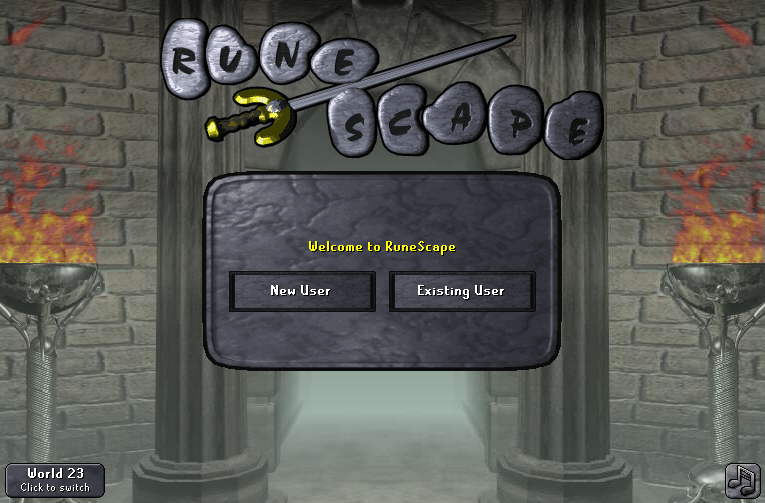
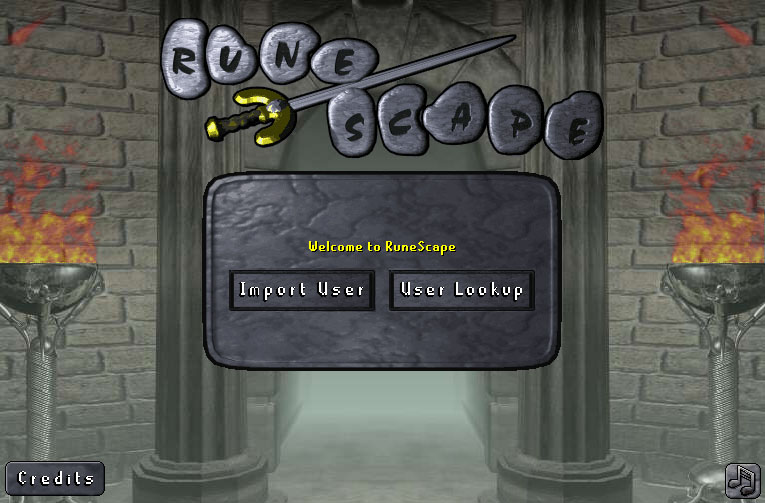
Fixed images and dpi issue

Changed region(s): [[0.3007, 0.5368, 0.6915, 0.6262], [0.0, 0.8946, 0.1503, 1.0], [0.451, 0.4771, 0.481, 0.507]]

diff --git a/src/runescape/RunescapeUI.java b/src/runescape/RunescapeUI.java
@@ -3,6 +3,10 @@ package runescape;
 import java.awt.Color;
 import java.awt.Container;
 import java.awt.Dimension;
+import java.awt.DisplayMode;
+import java.awt.GraphicsConfiguration;
+import java.awt.GraphicsDevice;
+import java.awt.GraphicsEnvironment;
 import java.awt.GridLayout;
 import java.awt.Rectangle;
 import java.awt.Toolkit;
@@ -18,6 +22,7 @@ import javax.swing.ImageIcon;
 import javax.swing.JButton;
 import javax.swing.JFrame;
 import javax.swing.JLabel;
+import javax.swing.JOptionPane;
 import javax.swing.JTextField;
 import javax.swing.SwingUtilities;
 import javax.swing.UIManager;
@@ -25,8 +30,9 @@ import javax.swing.UIManager;
 /* Currently testing to see if screen DPI is going to cause an issue with the program... How could I fix it?
  * Personal notes:
  * Laptop - 144DPI, 1920x1080
- * Desktop -
- * School Computer - 
+ * Desktop - 96DPI, 1920x1080
+ * 8 pixel difference on the Y axis will set it properly...
+ * 
  * 
  */
 
@@ -40,50 +46,73 @@ public class RunescapeUI extends JFrame {
 	public ImageIcon runescapeLoginIntro = new ImageIcon(cl.getResource("runescape/images/rsLogin.jpg"));  // Get the resource of the rsLogin
 	public ImageIcon rsLgn = new ImageIcon(cl.getResource("runescape/images/rsLogin2.png"));
 	JLabel bg = new JLabel(runescapeLoginIntro);
-	JButton loginButton, newAccountButton, searchButton;
+	JButton loginButton, newAccountButton, searchButton, creditsButton;
 	JTextField lookUp;
-	final int height = 540;
-	final int width = 765;
-		
+	final int offset = getScreenResolution();
+	final int frameWidth = 765;
+	final int frameHeight = 540 - offset;
+	final Dimension dm =  new Dimension(135, 35);
 	
 	public RunescapeUI() {
-		debugScreenResolution();
+		Container content = this;
+		//debugScreenResolution();
 		debugMousePosition(this);
 		setDefaultLookAndFeelDecorated(true);
 		lookUp = new JTextField();
 		loginButton = new JButton();
 		searchButton = new JButton();
 		newAccountButton = new JButton();
+		creditsButton = new JButton();
+		
+		// creditsButton always shown
+		creditsButton.setOpaque(true);
+		creditsButton.setBorderPainted(false);
+		creditsButton.setContentAreaFilled(false);
+		creditsButton.setFocusable(false);
+		
+		creditsButton.setLocation(frameWidth - 756, frameHeight - (38 + offset));
+		creditsButton.setSize(91, 30);
+		
+		// First original display
+		loginButton.setLocation(frameWidth - 370, frameHeight - (231 + offset));
+		loginButton.setSize(dm);
+		
+		newAccountButton.setLocation(frameWidth - 529, frameHeight - (230 + offset));
+		newAccountButton.setSize(dm);
+		
+		// Buttons that show up after you click loginButton
+		searchButton.setLocation(frameWidth - 442, frameHeight - (204 + offset));
+		searchButton.setSize(dm);
+		
+		lookUp.setLocation(frameWidth - 425, frameHeight - (285 + offset));
+		lookUp.setSize(125, 20);
 		
 		
 		searchButton.setOpaque(false);
-		searchButton.setBackground(Color.BLACK);
+		searchButton.setBackground(Color.black);
 		searchButton.setBorderPainted(false);
 		searchButton.setContentAreaFilled(false);
 		searchButton.setVisible(false);
+		searchButton.setFocusable(false);
 		
-		searchButton.setBounds(width - 434, height - 214, (456 - 331), (351 - 326));
-		lookUp.setBounds(341, 256, (467 - 341), (280 - 260));
-		loginButton.setBounds(396, 309, (531 - 396), (343 - 311));
-		newAccountButton.setLocation(width - 529, height - 230);
-		newAccountButton.setSize(135, 35);
-		//newAccountButton.setBounds(width - 529, height - 230, 135, 35);
-		
-		lookUp.setBackground(Color.darkGray);
+		lookUp.setOpaque(true);
+		lookUp.setBackground(new Color(72, 75, 84));
 		lookUp.setForeground(Color.white);
 		lookUp.setBorder(BorderFactory.createEmptyBorder());
 		lookUp.setVisible(false);
-		lookUp.requestFocus();
+		lookUp.setFocusable(true);
 		
-		newAccountButton.setOpaque(true);
+		newAccountButton.setOpaque(false);
 		newAccountButton.setBorderPainted(false);
-		newAccountButton.setContentAreaFilled(true);
-		newAccountButton.setBackground(Color.darkGray.brighter());
+		newAccountButton.setContentAreaFilled(false);
+		newAccountButton.setBackground(Color.black);
+		newAccountButton.setFocusable(false);
 		
 		loginButton.setOpaque(false);
 		loginButton.setBackground(Color.BLACK);
 		loginButton.setBorderPainted(false);
 		loginButton.setContentAreaFilled(false);
+		loginButton.setFocusable(false);
 		
 		
 		setDefaultCloseOperation(JFrame.EXIT_ON_CLOSE);
@@ -93,14 +122,22 @@ public class RunescapeUI extends JFrame {
 		getContentPane().add(lookUp);
 		getContentPane().add(bg);  // Add the runescape login picture to the frame
 		getContentPane().add(searchButton);
+		getContentPane().add(creditsButton);
 		bg.setSize(this.getSize().width, this.getSize().height);
 		setComponentZOrder(searchButton, 0);
 		setComponentZOrder(loginButton, 0);
 		setComponentZOrder(lookUp, 0);
 		setComponentZOrder(newAccountButton, 0);
+		setComponentZOrder(creditsButton, 0);
 		setComponentZOrder(bg, 1);
-		setPreferredSize(new Dimension(width, height));
-		setSize(width, height);  // Don't change this! This is the perfect size for the rsLogin picture!
+		setSize(frameWidth, frameHeight);  // Don't change this! This is the perfect size for the rsLogin picture!
+		
+		creditsButton.addActionListener(new ActionListener() {
+			public void actionPerformed(ActionEvent e) {
+				JOptionPane.showMessageDialog(content, "Credits: " + "\n" 
+			+ "Cameron Kurtz - Lead Developer, only developer.");
+			}
+		});
 		
 		loginButton.addActionListener(new ActionListener() {
             public void actionPerformed(ActionEvent e)
@@ -109,17 +146,19 @@ public class RunescapeUI extends JFrame {
                 System.out.println("Registered existing character click...");
                 newAccountButton.setEnabled(false);
                 newAccountButton.setVisible(false);
-                newAccountButton.setOpaque(false);
                 loginButton.setEnabled(false);
+                loginButton.setVisible(false);
                 bg.setIcon(rsLgn);
+                lookUp.setIgnoreRepaint(true);
                 lookUp.setVisible(true);
+                lookUp.requestFocusInWindow();
                 searchButton.setVisible(true);
             }
         });
 		lookUp.addKeyListener(new KeyAdapter() {
 			public void keyPressed(KeyEvent e) {
 				int key = e.getKeyCode();
-				if(key == KeyEvent.VK_ENTER) {
+				if(key == KeyEvent.VK_ENTER && !lookUp.getText().isEmpty()) {
 						try {
 							RunescapeCharacter.readStats(lookUp.getText().toLowerCase().toString());
 						} catch (Throwable e1) {
@@ -127,6 +166,7 @@ public class RunescapeUI extends JFrame {
 							e1.printStackTrace();
 						}
 						lookUp.setText("");
+						lookUp.requestFocusInWindow();
 				}
 			}
 		});
@@ -135,6 +175,9 @@ public class RunescapeUI extends JFrame {
 				System.out.println("Ayy!");
 				if(lookUp.getText().isEmpty()) {
 					System.out.println("There should be text here!");
+				}
+				if(lookUp.getText() == null) {
+					System.out.println("They need to  enter text here!");
 				}
 				else {
 					if(lookUp.getText().contains(" ")) {
@@ -159,13 +202,29 @@ public class RunescapeUI extends JFrame {
 		
 		newAccountButton.addActionListener(new ActionListener() {
 			public void actionPerformed(ActionEvent e) {
-				System.out.println("Feature disabled");
+				System.out.println("Character import...");
+				newAccountButton.setEnabled(false);
+                newAccountButton.setVisible(false);
+                loginButton.setEnabled(false);
+                loginButton.setVisible(false);
 			}
 		});
 		
 		
 	}
 	
+	private int getScreenResolution() {
+		int screenResolution = Toolkit.getDefaultToolkit().getScreenResolution();
+		int offset;
+		if(screenResolution == 144) {
+			offset = 0;
+		}
+		else {
+			offset = (144 - screenResolution) / 6;
+		}
+		return offset;
+	}
+
 	private static void debugScreenResolution() {
 		final JFrame box = new JFrame("Screen Res.");
 		box.setAlwaysOnTop(true);

diff --git a/src/debugScreenResolution.java b/src/debugScreenResolution.java
@@ -1,0 +1,30 @@
+import java.awt.Dimension;
+import java.awt.GridLayout;
+import java.awt.Toolkit;
+
+import javax.swing.JFrame;
+import javax.swing.JLabel;
+
+
+public class debugScreenResolution {
+
+	public static void main(String[] args) {
+		final JFrame box = new JFrame("Screen Res.");
+		box.setAlwaysOnTop(true);
+		box.setDefaultCloseOperation(JFrame.EXIT_ON_CLOSE);
+		box.setSize(600, 100);
+		box.setLayout(new GridLayout(1,3));
+		box.setVisible(true);
+		int screenRes = Toolkit.getDefaultToolkit().getScreenResolution();
+		Dimension screenSize = Toolkit.getDefaultToolkit().getScreenSize();
+		JLabel wid = new JLabel("Width: " + String.valueOf(screenSize.getWidth()));
+		JLabel hei = new JLabel("Height: " + String.valueOf(screenSize.getHeight()));
+		JLabel res = new JLabel("Resolution: " + String.valueOf(screenRes));
+		box.add(wid);
+		box.add(hei);
+		box.add(res);
+		box.setResizable(false);
+
+	}
+
+}
